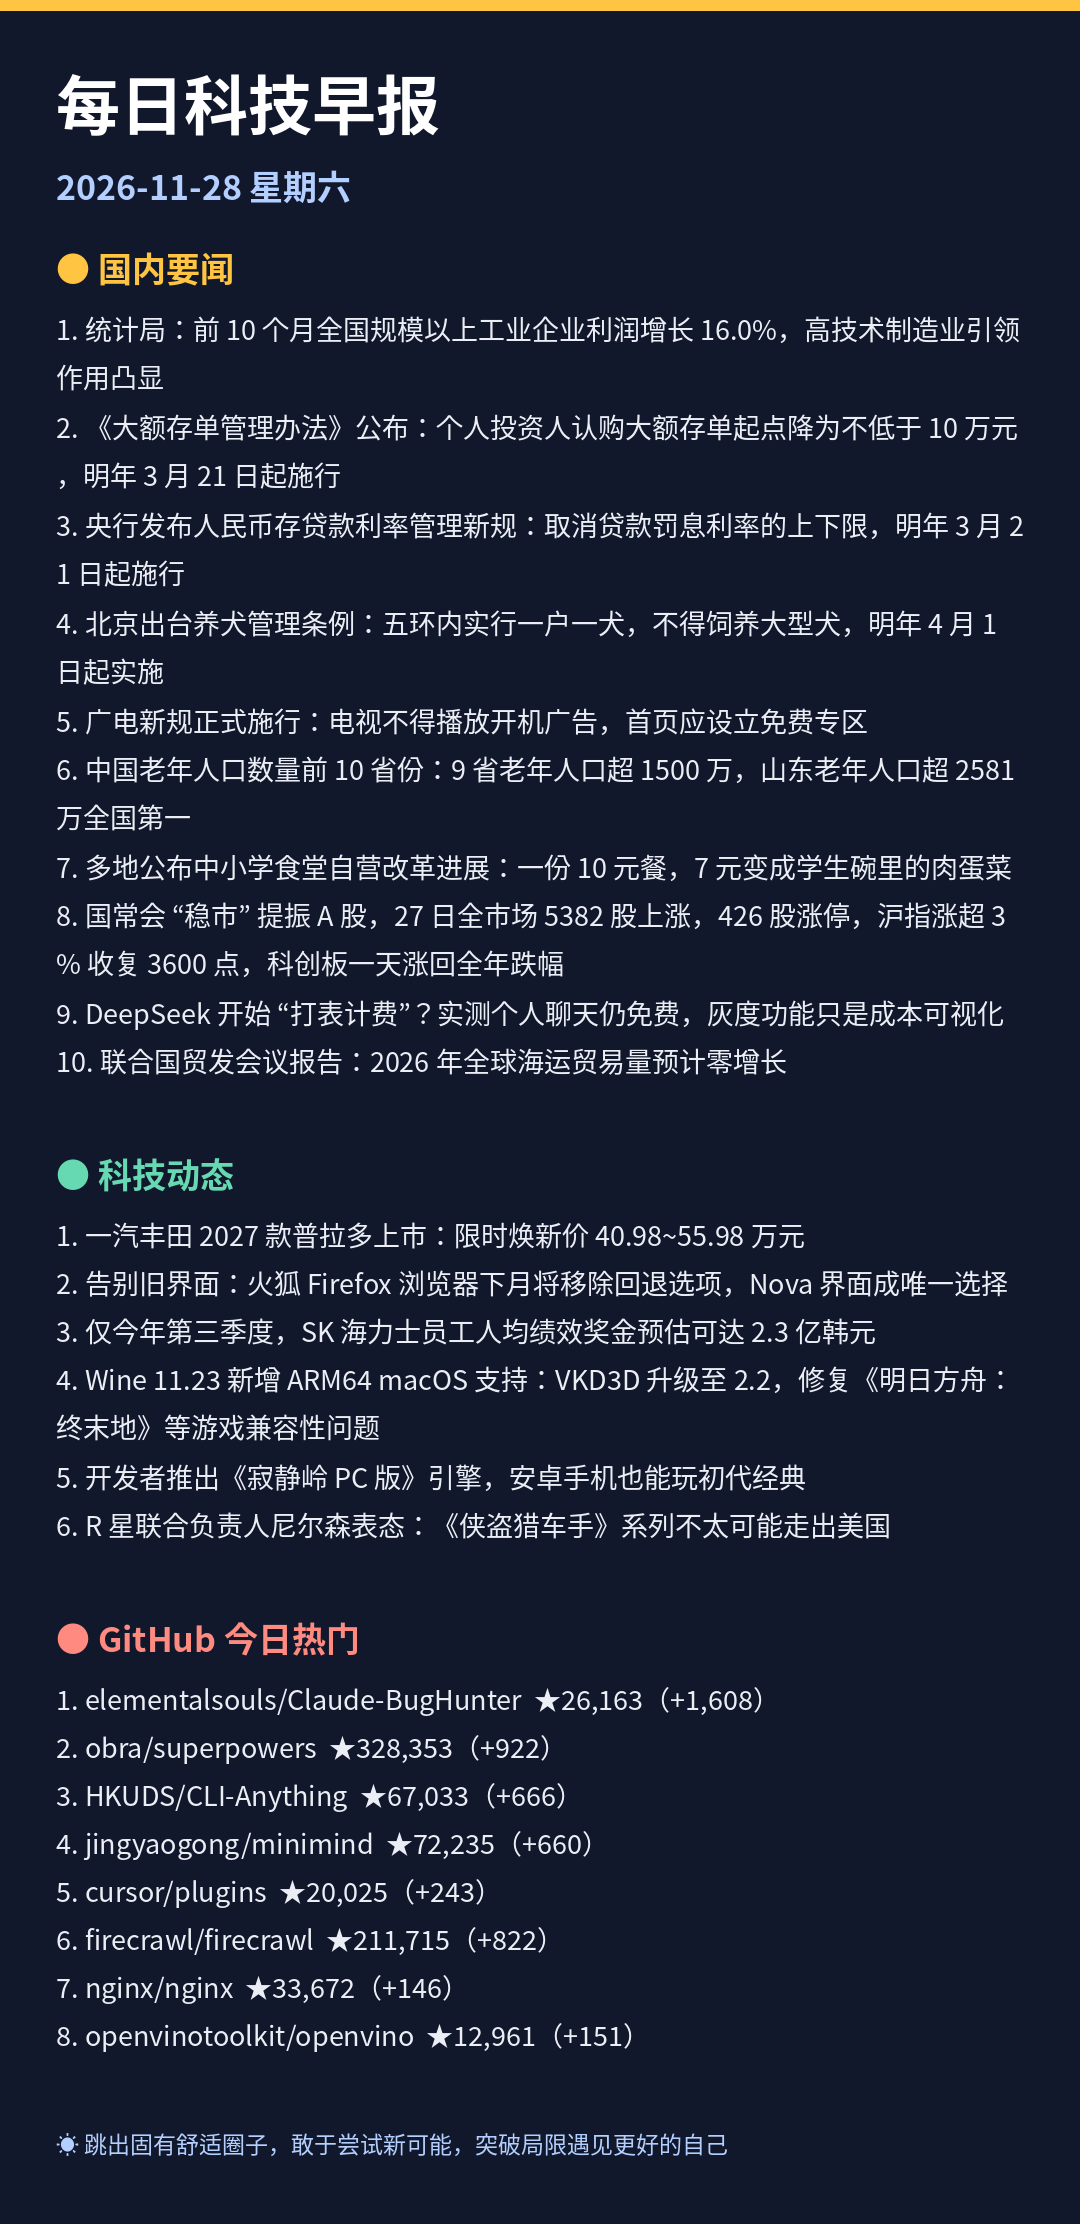
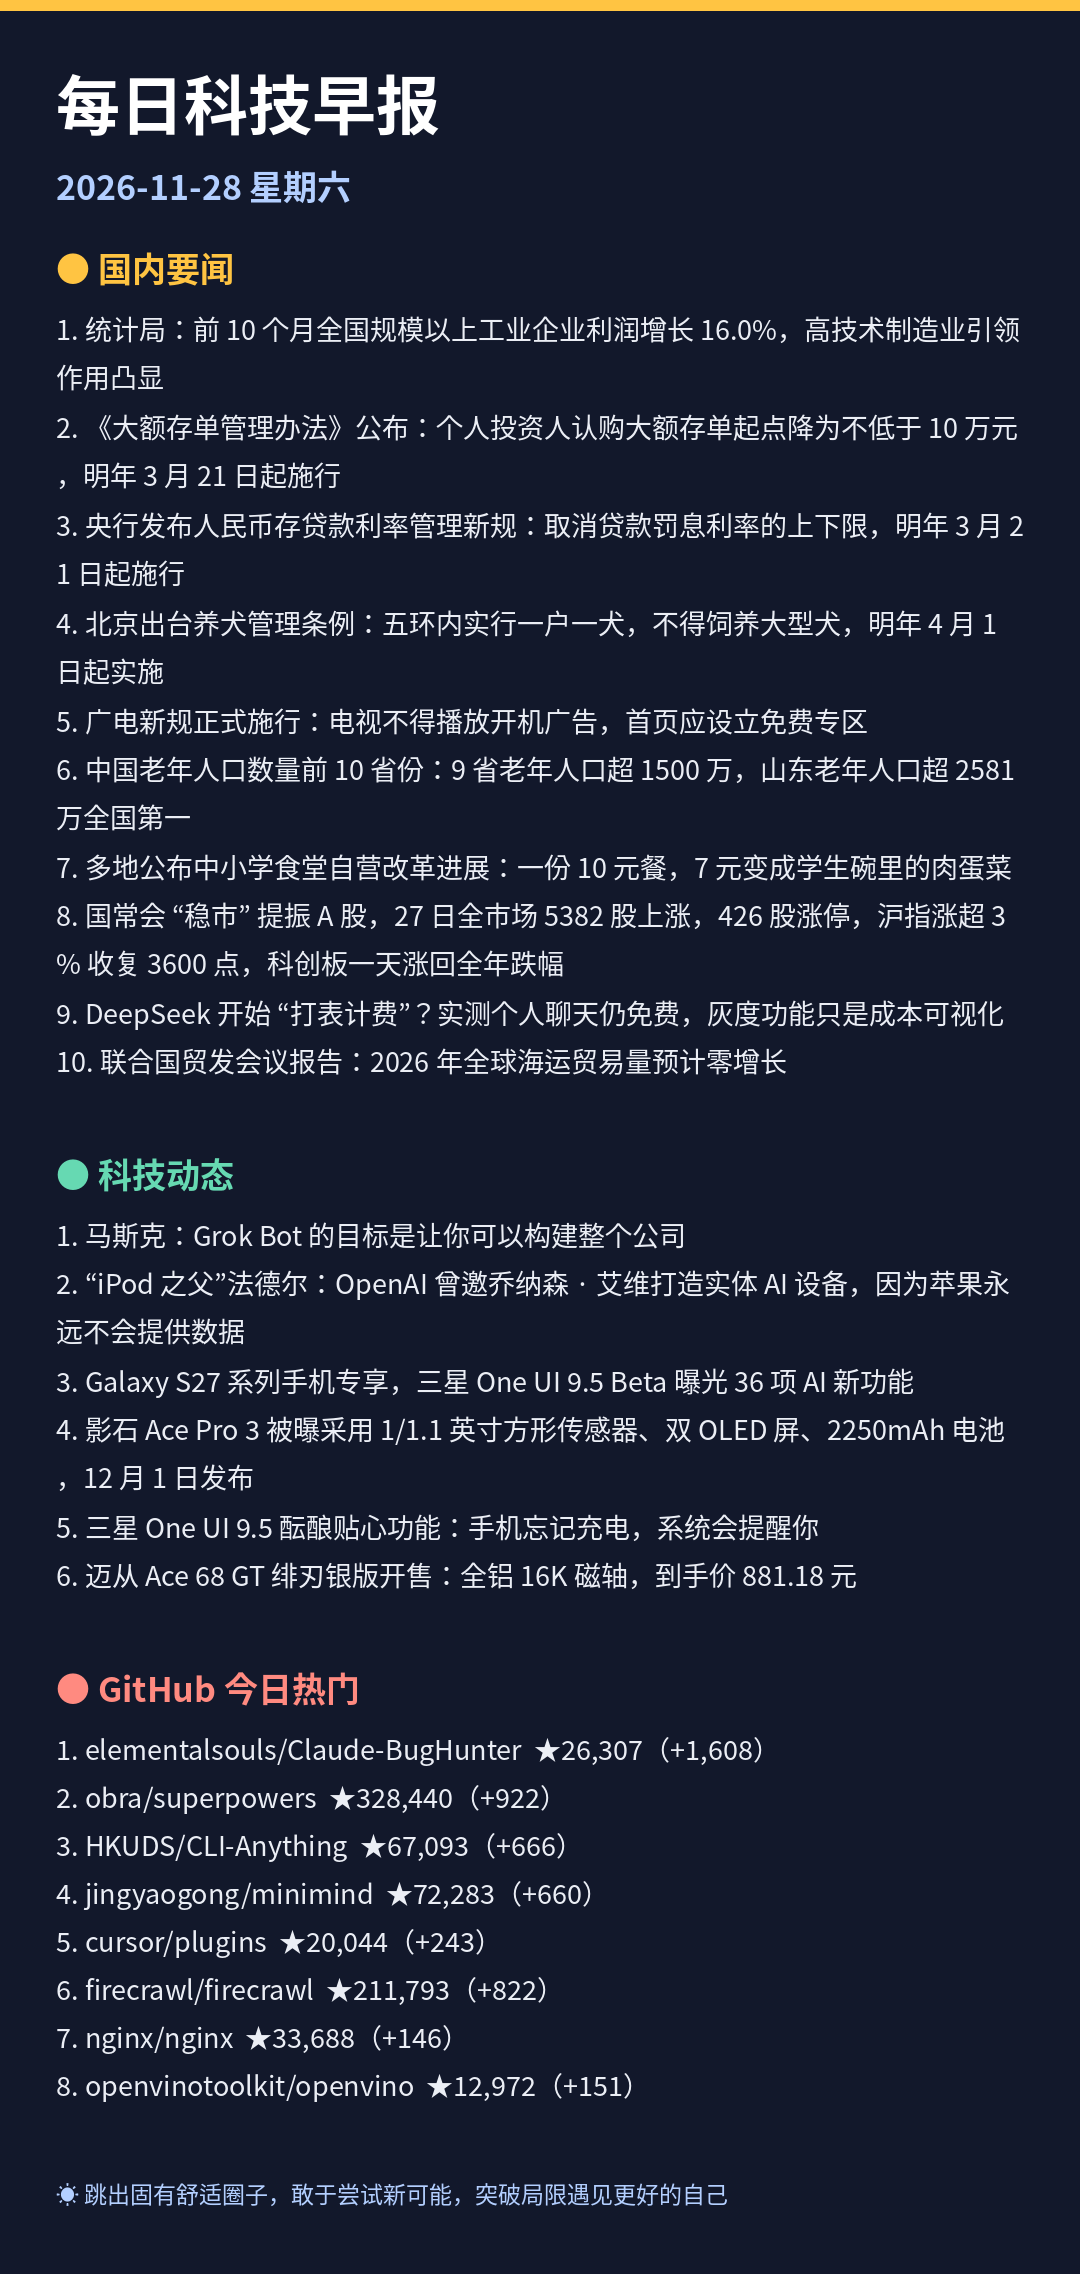
每日早报 2026-11-28

diff --git a/README.md b/README.md
@@ -30,34 +30,34 @@
 
 ## 💻 科技动态
 
-1. [一汽丰田 2027 款普拉多上市：限时焕新价 40.98~55.98 万元](https://www.ithome.com/1/033/807.htm)
-2. [告别旧界面：火狐 Firefox 浏览器下月将移除回退选项，Nova 界面成唯一选择](https://www.ithome.com/1/033/806.htm)
-3. [仅今年第三季度，SK 海力士员工人均绩效奖金预估可达 2.3 亿韩元](https://www.ithome.com/1/033/805.htm)
-4. [Wine 11.23 新增 ARM64 macOS 支持：VKD3D 升级至 2.2，修复《明日方舟：终末地》等游戏兼容性问题](https://www.ithome.com/1/033/804.htm)
-5. [开发者推出《寂静岭 PC 版》引擎，安卓手机也能玩初代经典](https://www.ithome.com/1/033/803.htm)
-6. [R 星联合负责人尼尔森表态：《侠盗猎车手》系列不太可能走出美国](https://www.ithome.com/1/033/801.htm)
-7. [民间移植 PC 版 LineageOS 24 登场：4GB 内存电脑也能运行，让你体验安卓 17](https://www.ithome.com/1/033/800.htm)
-8. [小米 REDMI Turbo 6 系列新机通过 3C 认证，支持 100W 有线快充](https://www.ithome.com/1/033/799.htm)
+1. [马斯克：Grok Bot 的目标是让你可以构建整个公司](https://www.ithome.com/1/033/827.htm)
+2. [“iPod 之父”法德尔：OpenAI 曾邀乔纳森 · 艾维打造实体 AI 设备，因为苹果永远不会提供数据](https://www.ithome.com/1/033/824.htm)
+3. [Galaxy S27 系列手机专享，三星 One UI 9.5 Beta 曝光 36 项 AI 新功能](https://www.ithome.com/1/033/822.htm)
+4. [影石 Ace Pro 3 被曝采用 1/1.1 英寸方形传感器、双 OLED 屏、2250mAh 电池，12 月 1 日发布](https://www.ithome.com/1/033/821.htm)
+5. [三星 One UI 9.5 酝酿贴心功能：手机忘记充电，系统会提醒你](https://www.ithome.com/1/033/820.htm)
+6. [迈从 Ace 68 GT 绯刃银版开售：全铝 16K 磁轴，到手价 881.18 元](https://www.ithome.com/1/033/819.htm)
+7. [“GTA 6 终于来了”：微软 GitHub 力挺 PS5 转 PC 工具惹争议，官方火速删除推文](https://www.ithome.com/1/033/818.htm)
+8. [歼-35A 飞抵珠海将首次以真机形式进馆展出，12 月 7 日航展开幕](https://www.ithome.com/1/033/817.htm)
 
 <sub>来源：IT之家</sub>
 
 ## 🔥 GitHub 今日热门
 
-1. **[elementalsouls/Claude-BugHunter](https://github.com/elementalsouls/Claude-BugHunter)** — ⭐ 26,163（今日 +1,608） · Python
+1. **[elementalsouls/Claude-BugHunter](https://github.com/elementalsouls/Claude-BugHunter)** — ⭐ 26,307（今日 +1,608） · Python
    A Claude Code skill bundle for bug hunting and external red-team work - 85 skills, 16 slash commands, 681 disclosed-repo…
-2. **[obra/superpowers](https://github.com/obra/superpowers)** — ⭐ 328,353（今日 +922） · Shell
+2. **[obra/superpowers](https://github.com/obra/superpowers)** — ⭐ 328,440（今日 +922） · Shell
    An agentic skills framework software development methodology that works.
-3. **[HKUDS/CLI-Anything](https://github.com/HKUDS/CLI-Anything)** — ⭐ 67,033（今日 +666） · Python
+3. **[HKUDS/CLI-Anything](https://github.com/HKUDS/CLI-Anything)** — ⭐ 67,093（今日 +666） · Python
    "CLI-Anything: Making ALL Software Agent-Native" -- CLI-Hub: https://clianything.cc/
-4. **[jingyaogong/minimind](https://github.com/jingyaogong/minimind)** — ⭐ 72,235（今日 +660） · Python
+4. **[jingyaogong/minimind](https://github.com/jingyaogong/minimind)** — ⭐ 72,283（今日 +660） · Python
    🧠 两小时从 0 训出你的 64M 大模型。Train your own 64M LLM from scratch in 2 hours.
-5. **[cursor/plugins](https://github.com/cursor/plugins)** — ⭐ 20,025（今日 +243） · TypeScript
+5. **[cursor/plugins](https://github.com/cursor/plugins)** — ⭐ 20,044（今日 +243） · TypeScript
    Cursor plugin specification and official plugins
-6. **[firecrawl/firecrawl](https://github.com/firecrawl/firecrawl)** — ⭐ 211,715（今日 +822） · TypeScript
+6. **[firecrawl/firecrawl](https://github.com/firecrawl/firecrawl)** — ⭐ 211,793（今日 +822） · TypeScript
    Knowledge infrastructure to make your agents smarter. Search, scrape and access 550+ data providers through one API.
-7. **[nginx/nginx](https://github.com/nginx/nginx)** — ⭐ 33,672（今日 +146） · C
+7. **[nginx/nginx](https://github.com/nginx/nginx)** — ⭐ 33,688（今日 +146） · C
    The official NGINX Open Source repository.
-8. **[openvinotoolkit/openvino](https://github.com/openvinotoolkit/openvino)** — ⭐ 12,961（今日 +151） · C++
+8. **[openvinotoolkit/openvino](https://github.com/openvinotoolkit/openvino)** — ⭐ 12,972（今日 +151） · C++
    OpenVINO™ is an open source toolkit for optimizing and deploying AI inference
 
 <sub>来源：GitHub Trending</sub>

diff --git a/editions/2026-11-28.md b/editions/2026-11-28.md
@@ -22,34 +22,34 @@
 
 ## 💻 科技动态
 
-1. [一汽丰田 2027 款普拉多上市：限时焕新价 40.98~55.98 万元](https://www.ithome.com/1/033/807.htm)
-2. [告别旧界面：火狐 Firefox 浏览器下月将移除回退选项，Nova 界面成唯一选择](https://www.ithome.com/1/033/806.htm)
-3. [仅今年第三季度，SK 海力士员工人均绩效奖金预估可达 2.3 亿韩元](https://www.ithome.com/1/033/805.htm)
-4. [Wine 11.23 新增 ARM64 macOS 支持：VKD3D 升级至 2.2，修复《明日方舟：终末地》等游戏兼容性问题](https://www.ithome.com/1/033/804.htm)
-5. [开发者推出《寂静岭 PC 版》引擎，安卓手机也能玩初代经典](https://www.ithome.com/1/033/803.htm)
-6. [R 星联合负责人尼尔森表态：《侠盗猎车手》系列不太可能走出美国](https://www.ithome.com/1/033/801.htm)
-7. [民间移植 PC 版 LineageOS 24 登场：4GB 内存电脑也能运行，让你体验安卓 17](https://www.ithome.com/1/033/800.htm)
-8. [小米 REDMI Turbo 6 系列新机通过 3C 认证，支持 100W 有线快充](https://www.ithome.com/1/033/799.htm)
+1. [马斯克：Grok Bot 的目标是让你可以构建整个公司](https://www.ithome.com/1/033/827.htm)
+2. [“iPod 之父”法德尔：OpenAI 曾邀乔纳森 · 艾维打造实体 AI 设备，因为苹果永远不会提供数据](https://www.ithome.com/1/033/824.htm)
+3. [Galaxy S27 系列手机专享，三星 One UI 9.5 Beta 曝光 36 项 AI 新功能](https://www.ithome.com/1/033/822.htm)
+4. [影石 Ace Pro 3 被曝采用 1/1.1 英寸方形传感器、双 OLED 屏、2250mAh 电池，12 月 1 日发布](https://www.ithome.com/1/033/821.htm)
+5. [三星 One UI 9.5 酝酿贴心功能：手机忘记充电，系统会提醒你](https://www.ithome.com/1/033/820.htm)
+6. [迈从 Ace 68 GT 绯刃银版开售：全铝 16K 磁轴，到手价 881.18 元](https://www.ithome.com/1/033/819.htm)
+7. [“GTA 6 终于来了”：微软 GitHub 力挺 PS5 转 PC 工具惹争议，官方火速删除推文](https://www.ithome.com/1/033/818.htm)
+8. [歼-35A 飞抵珠海将首次以真机形式进馆展出，12 月 7 日航展开幕](https://www.ithome.com/1/033/817.htm)
 
 <sub>来源：IT之家</sub>
 
 ## 🔥 GitHub 今日热门
 
-1. **[elementalsouls/Claude-BugHunter](https://github.com/elementalsouls/Claude-BugHunter)** — ⭐ 26,163（今日 +1,608） · Python
+1. **[elementalsouls/Claude-BugHunter](https://github.com/elementalsouls/Claude-BugHunter)** — ⭐ 26,307（今日 +1,608） · Python
    A Claude Code skill bundle for bug hunting and external red-team work - 85 skills, 16 slash commands, 681 disclosed-repo…
-2. **[obra/superpowers](https://github.com/obra/superpowers)** — ⭐ 328,353（今日 +922） · Shell
+2. **[obra/superpowers](https://github.com/obra/superpowers)** — ⭐ 328,440（今日 +922） · Shell
    An agentic skills framework software development methodology that works.
-3. **[HKUDS/CLI-Anything](https://github.com/HKUDS/CLI-Anything)** — ⭐ 67,033（今日 +666） · Python
+3. **[HKUDS/CLI-Anything](https://github.com/HKUDS/CLI-Anything)** — ⭐ 67,093（今日 +666） · Python
    "CLI-Anything: Making ALL Software Agent-Native" -- CLI-Hub: https://clianything.cc/
-4. **[jingyaogong/minimind](https://github.com/jingyaogong/minimind)** — ⭐ 72,235（今日 +660） · Python
+4. **[jingyaogong/minimind](https://github.com/jingyaogong/minimind)** — ⭐ 72,283（今日 +660） · Python
    🧠 两小时从 0 训出你的 64M 大模型。Train your own 64M LLM from scratch in 2 hours.
-5. **[cursor/plugins](https://github.com/cursor/plugins)** — ⭐ 20,025（今日 +243） · TypeScript
+5. **[cursor/plugins](https://github.com/cursor/plugins)** — ⭐ 20,044（今日 +243） · TypeScript
    Cursor plugin specification and official plugins
-6. **[firecrawl/firecrawl](https://github.com/firecrawl/firecrawl)** — ⭐ 211,715（今日 +822） · TypeScript
+6. **[firecrawl/firecrawl](https://github.com/firecrawl/firecrawl)** — ⭐ 211,793（今日 +822） · TypeScript
    Knowledge infrastructure to make your agents smarter. Search, scrape and access 550+ data providers through one API.
-7. **[nginx/nginx](https://github.com/nginx/nginx)** — ⭐ 33,672（今日 +146） · C
+7. **[nginx/nginx](https://github.com/nginx/nginx)** — ⭐ 33,688（今日 +146） · C
    The official NGINX Open Source repository.
-8. **[openvinotoolkit/openvino](https://github.com/openvinotoolkit/openvino)** — ⭐ 12,961（今日 +151） · C++
+8. **[openvinotoolkit/openvino](https://github.com/openvinotoolkit/openvino)** — ⭐ 12,972（今日 +151） · C++
    OpenVINO™ is an open source toolkit for optimizing and deploying AI inference
 
 <sub>来源：GitHub Trending</sub>
